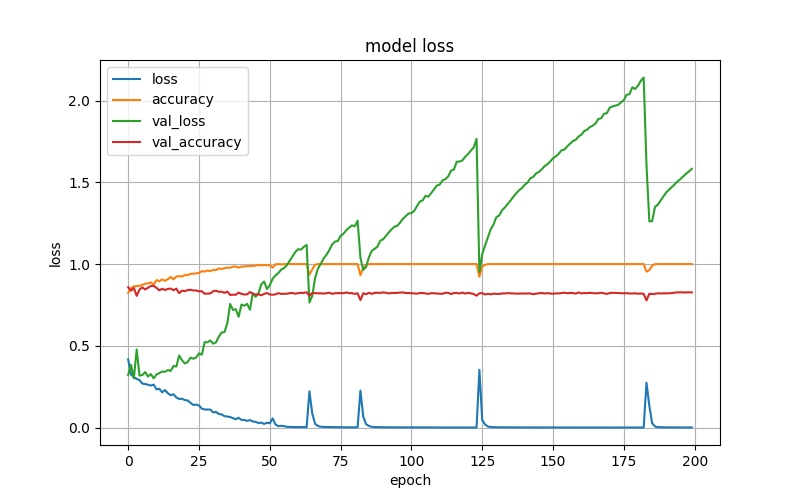
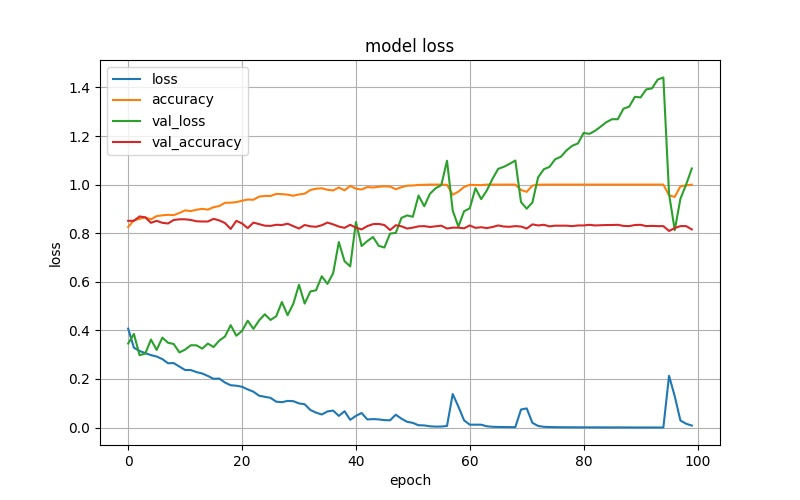
Committed 2021/05/09

diff --git a/Deep_learning_class_2021/Project1/Waveform_NNs.py b/Deep_learning_class_2021/Project1/Waveform_NNs.py
@@ -44,7 +44,7 @@ plot_model(model=model, show_shapes=True, show_layer_names=True)
 model.compile(optimizer='adam', loss='sparse_categorical_crossentropy', metrics='accuracy')
 
 # Train
-history = model.fit(x=X_train, y=y_train, epochs=200, batch_size=10, validation_split=0.33)
+history = model.fit(x=X_train, y=y_train, epochs=100, batch_size=10, validation_split=0.33)
 
 pd.DataFrame(data=history.history).plot(figsize=(8, 5))
 plt.grid(True)
@@ -59,3 +59,5 @@ plt.show()
 
 y_prediction = model.predict(x=X_test)
 print(y_prediction)
+print(np.mean(y_prediction))
+

diff --git a/Supplementary materials/Keras/Sequential().py b/Supplementary materials/Keras/Sequential().py
@@ -1,0 +1,1 @@
+# Reference: https://www.tensorflow.org/api_docs/python/tf/keras/Sequential
